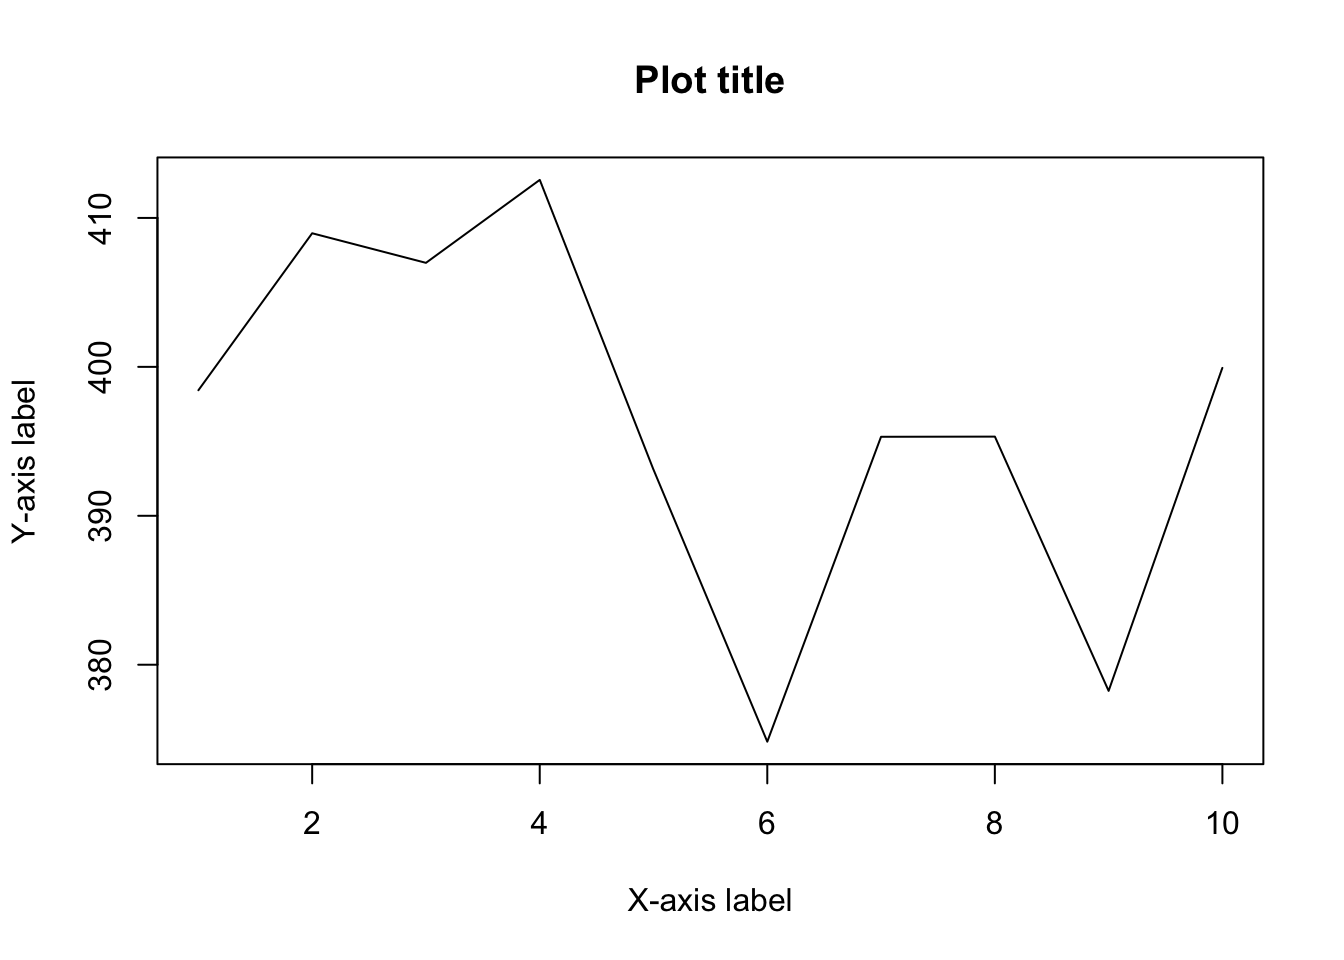
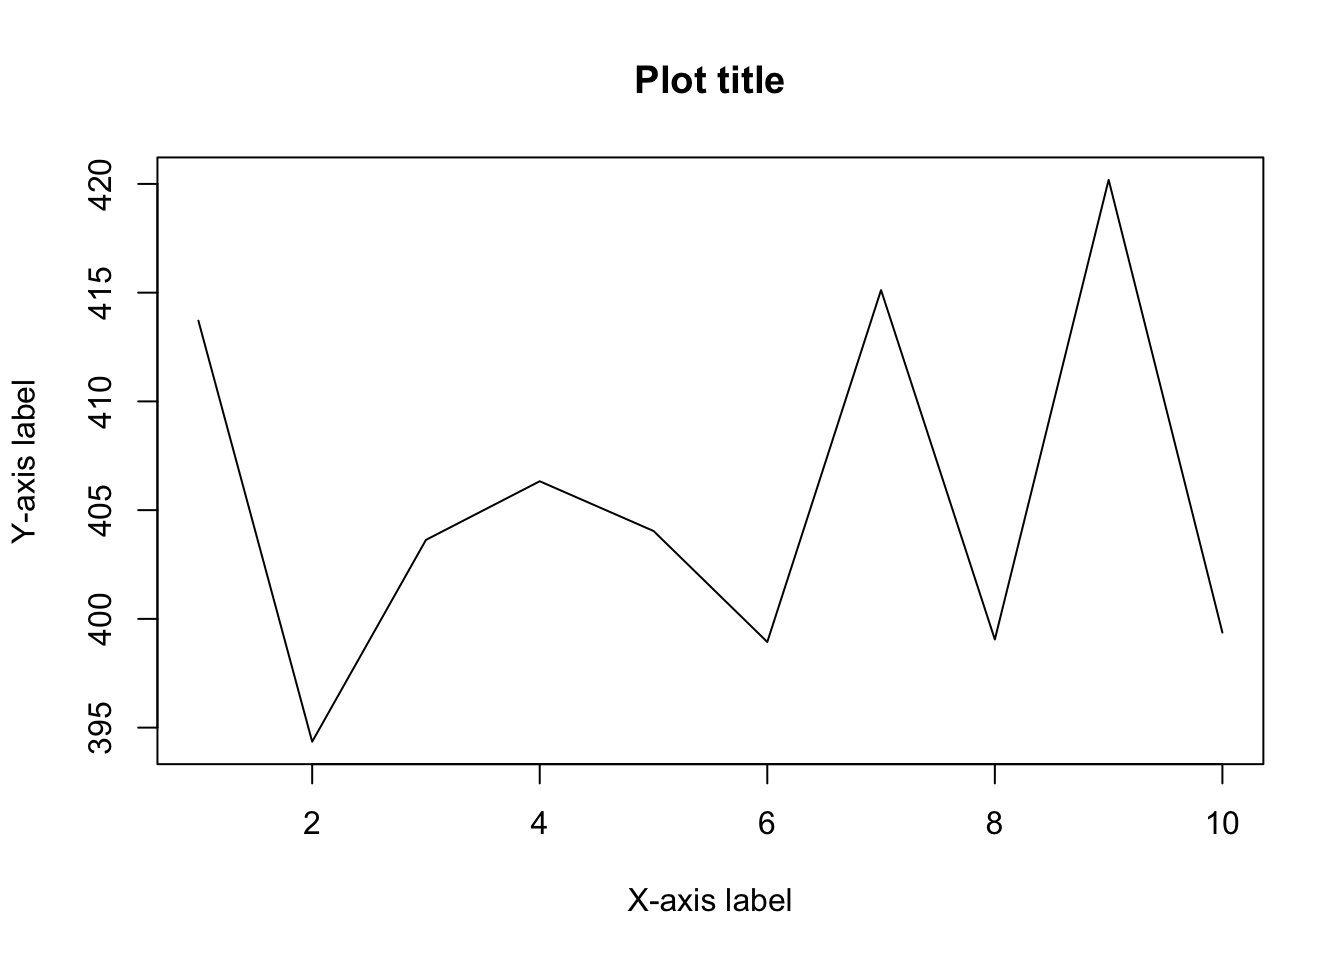
edit post

diff --git a/content/blog/how-to-install-r-and-rstudio.html b/content/blog/how-to-install-r-and-rstudio.html
@@ -16,27 +16,27 @@ output:
 # draft: true
 ---
 
-<script src="/rmarkdown-libs/header-attrs/header-attrs.js"></script>
 
 <div id="TOC">
 <ul>
-<li><a href="#what-is-r-and-rstudio">What is R and RStudio?</a>
+<li><a href="#what-is-r-and-rstudio" id="toc-what-is-r-and-rstudio">What is R and RStudio?</a>
 <ul>
-<li><a href="#r">R</a></li>
-<li><a href="#rstudio">RStudio</a></li>
+<li><a href="#r" id="toc-r">R</a></li>
+<li><a href="#rstudio" id="toc-rstudio">RStudio</a></li>
 </ul></li>
-<li><a href="#how-to-install-r-and-rstudio">How to install R and RStudio?</a></li>
-<li><a href="#the-main-components-of-rstudio">The main components of RStudio</a></li>
-<li><a href="#examples-of-code">Examples of code</a>
+<li><a href="#how-to-install-r-and-rstudio" id="toc-how-to-install-r-and-rstudio">How to install R and RStudio?</a></li>
+<li><a href="#the-main-components-of-rstudio" id="toc-the-main-components-of-rstudio">The main components of RStudio</a></li>
+<li><a href="#examples-of-code" id="toc-examples-of-code">Examples of code</a>
 <ul>
-<li><a href="#calculator">Calculator</a></li>
-<li><a href="#comments">Comments</a></li>
-<li><a href="#store-and-print-values">Store and print values</a></li>
-<li><a href="#vectors">Vectors</a></li>
-<li><a href="#matrices">Matrices</a></li>
-<li><a href="#generate-random-values">Generate random values</a></li>
-<li><a href="#plot">Plot</a></li>
+<li><a href="#calculator" id="toc-calculator">Calculator</a></li>
+<li><a href="#comments" id="toc-comments">Comments</a></li>
+<li><a href="#store-and-print-values" id="toc-store-and-print-values">Store and print values</a></li>
+<li><a href="#vectors" id="toc-vectors">Vectors</a></li>
+<li><a href="#matrices" id="toc-matrices">Matrices</a></li>
+<li><a href="#generate-random-values" id="toc-generate-random-values">Generate random values</a></li>
+<li><a href="#plot" id="toc-plot">Plot</a></li>
 </ul></li>
+<li><a href="#conclusion" id="toc-conclusion">Conclusion</a></li>
 </ul>
 </div>
 
@@ -209,10 +209,10 @@ my_mat2</code></pre>
 <pre class="r"><code>my_vec &lt;- rnorm(10, mean = 400, sd = 10)
 # Display only the first 5 values:
 head(my_vec, 5)</code></pre>
-<pre><code>## [1] 398.4297 408.9714 406.9843 412.5527 393.0921</code></pre>
+<pre><code>## [1] 413.7096 394.3530 403.6313 406.3286 404.0427</code></pre>
 <pre class="r"><code># Display only the last 5 values:
 tail(my_vec, 5)</code></pre>
-<pre><code>## [1] 374.8322 395.3051 395.3175 378.2433 399.9292</code></pre>
+<pre><code>## [1] 398.9388 415.1152 399.0534 420.1842 399.3729</code></pre>
 <p>You will have different values than mines due to the fact that they are randomly generated. If you want to make sure to have always the same random values, use <code>set.seed()</code> (with any numeric inside the brackets). For instance, with the following code, you should have the exact same values, no matter where and when you run it:</p>
 <pre class="r"><code>set.seed(42)
 rnorm(3, mean = 10, sd = 2)</code></pre>
@@ -227,12 +227,16 @@ rnorm(3, mean = 10, sd = 2)</code></pre>
   xlab = &quot;X-axis label&quot;
 )</code></pre>
 <p><img src="/blog/how-to-install-r-and-rstudio_files/figure-html/unnamed-chunk-12-1.png" width="100%" style="display: block; margin: auto;" /></p>
+</div>
+</div>
+<div id="conclusion" class="section level1">
+<h1>Conclusion</h1>
+<p>Thanks for reading.</p>
+<p>I hope this article helped you to install R and RStudio.</p>
 <p>This is only a very limited introduction to the possibilities of RStudio. If you want to learn more, I recommend that you read other <a href="/tags/R/">articles related to R</a>, starting with <a href="/blog/how-to-import-an-excel-file-in-rstudio/">how to import an Excel file</a> or <a href="/blog/data-manipulation-in-r/">how to manipulate a dataset in R</a>.</p>
-<p>Thanks for reading. I hope this article helped you to install R and RStudio.</p>
 <p>As always, if you have a question or a suggestion related to the topic covered in this article, please add it as a comment so other readers can benefit from the discussion.</p>
 </div>
-</div>
-<div class="footnotes">
+<div class="footnotes footnotes-end-of-document">
 <hr />
 <ol>
 <li id="fn1"><p>Actually you will need to reinstall your packages for each new R update. However, if you work on the same R version, you need to install your packages only once but load them everytime you open RStudio.<a href="#fnref1" class="footnote-back">↩</a></p></li>
